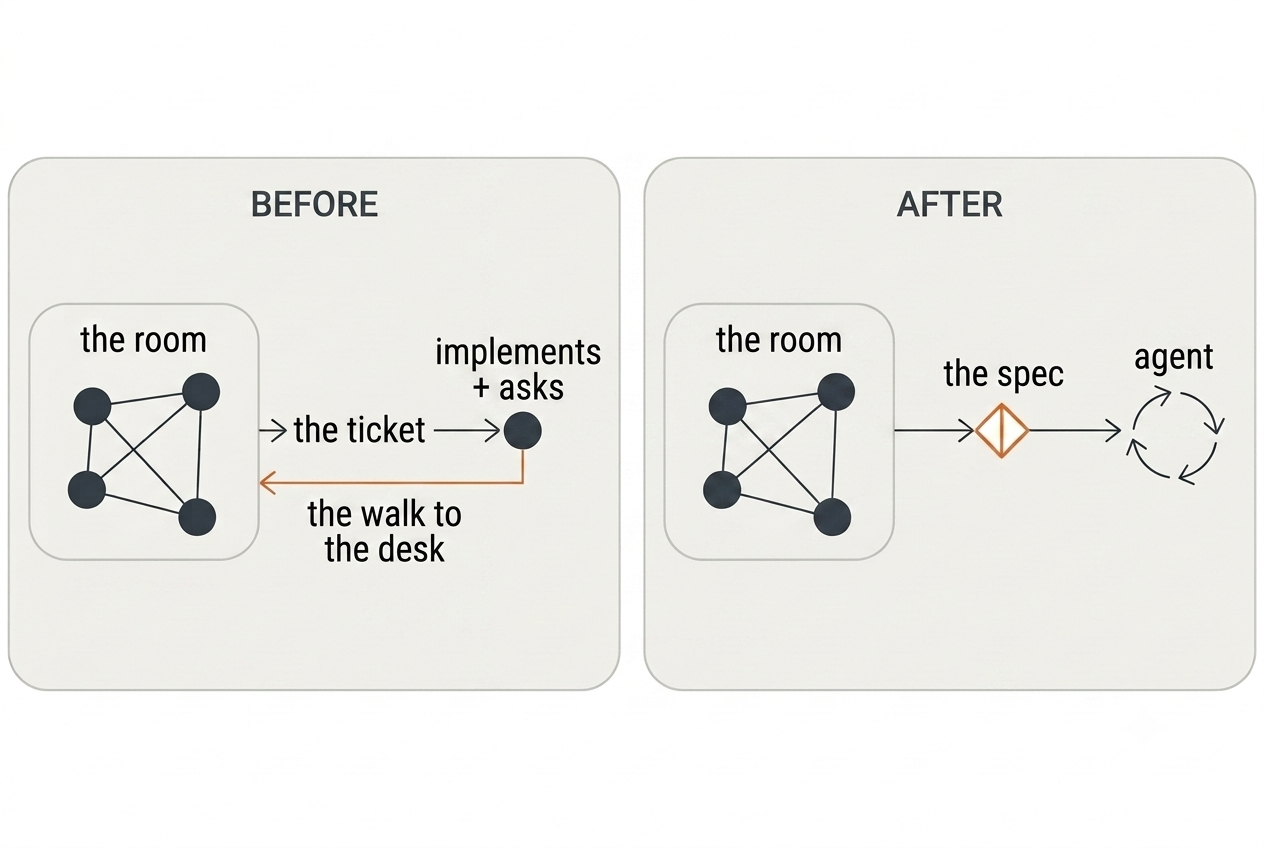
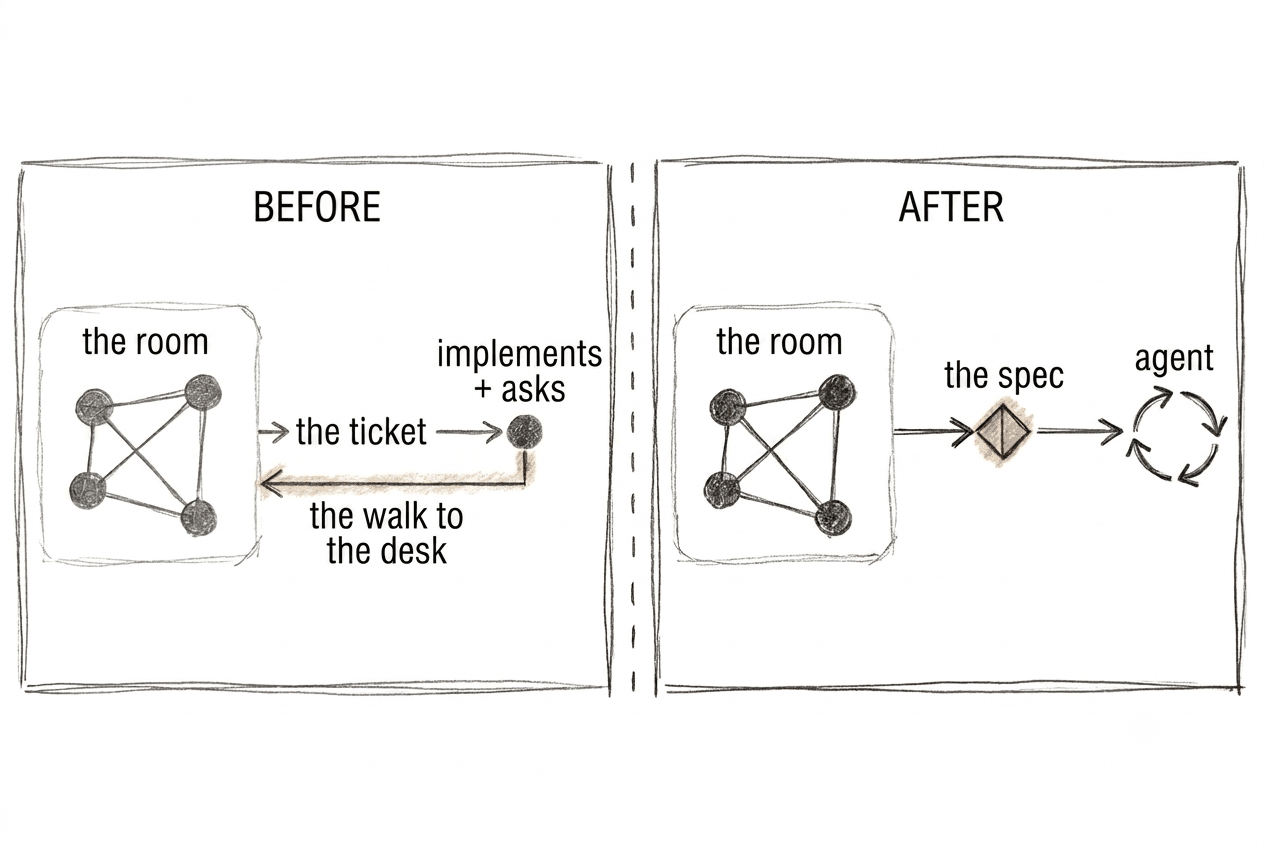
Land the hand-drawn figures, and put the Loop on the landing page
Upstream 4344903 restyled all four diagrams from vector to hand-drawn and
cut a fifth. Prose changed in two places only - the Trireme caption now
names the overlap "the spec" and runs the agent from it rather than in
it, and the Astrolabe loses the loop-contained figure and its caption -
so this is a real content update, unlike the renumbering before it. The
draft PDF and EPUB are now behind and still need rebuilding; the
changelog entry and the footer both say PENDING until that lands.

The landing page gains the Loop. It had no image at all, and no
explanation of its own title: a first-time visitor read "Left of the
Loop", then a paragraph about friction, with nothing joining the two.
The figure is the definition - LEFT, LOOP, RIGHT, with the room and the
spec on the left of a gate the team decides at. It is also the right one
to lift, being the canonical figure the bible marks final and the only
one that opens the cycle up; scattered-loops is explicitly unfinished.

It steps outside the 40em column above 56em, because the hand-lettered
annotations get tight at the measure. The breakpoint clears 48em plus
the body padding, so the negative margins cannot push it off-screen -
checked at 375, 896 and 1280, no horizontal overflow at any of them.

The social card is its own file rather than a second reference to the
figure. The card is 1.91:1 and the figure is 1.49:1, so pointing the
meta tags at the figure would have let the platforms crop the
[…]

Changed region(s): [[0.0, 0.1533, 1.0, 0.8278], [0.1851, 0.3679, 0.216, 0.3986]]

diff --git a/index.html b/index.html
@@ -12,10 +12,18 @@
 <meta property="og:description" content="When AI writes the code, shared understanding becomes the scarce resource. A working draft by Simon Schrottner.">
 <meta property="og:url" content="https://leftoftheloop.dev">
 <meta property="og:site_name" content="Left of the Loop">
+<!-- Its own file rather than the chapter figure: the social card is 1.91:1
+     and the figure is 1.49:1, so sharing the one image would have let the
+     platforms crop the LEFT/LOOP/RIGHT headings off the top. -->
+<meta property="og:image" content="https://leftoftheloop.dev/og-the-loop.png">
+<meta property="og:image:width" content="1200">
+<meta property="og:image:height" content="630">
+<meta property="og:image:alt" content="The room merges into a spec; the spec merges into the loop, where the agent generates, reviews, and iterates at machine speed; the loop merges into production.">
 
-<meta name="twitter:card" content="summary">
+<meta name="twitter:card" content="summary_large_image">
 <meta name="twitter:title" content="Left of the Loop">
 <meta name="twitter:description" content="When AI writes the code, shared understanding becomes the scarce resource. A working draft by Simon Schrottner.">
+<meta name="twitter:image" content="https://leftoftheloop.dev/og-the-loop.png">
 
 <style>
   body {
@@ -80,6 +88,31 @@
     border-top: 1px solid #ddd;
     margin: 2.5em 0;
   }
+  .figure {
+    margin: 2em 0;
+  }
+  .figure img {
+    display: block;
+    width: 100%;
+    height: auto;
+  }
+  .figure figcaption {
+    font-family: -apple-system, Helvetica, Arial, sans-serif;
+    font-size: 0.85em;
+    color: #666;
+    margin-top: 0.7em;
+  }
+  /* The drawing carries small hand-lettered annotations that get tight at
+     the 40em measure, so it steps outside the column once the viewport can
+     seat it. The breakpoint clears 48em plus the body padding, so the
+     negative margins can never push it off-screen. */
+  @media (min-width: 56em) {
+    .figure {
+      width: 48em;
+      margin-left: -4em;
+      margin-right: -4em;
+    }
+  }
   .excerpt-note {
     font-family: -apple-system, Helvetica, Arial, sans-serif;
     font-size: 0.85em;
@@ -127,6 +160,16 @@ understanding the scarce resource, and constructive friction the
 mechanism that protects it. This book is the argument for why teams that
 keep that friction will outperform teams that optimize it away.
 </p>
+
+<figure class="figure">
+  <a href="chapters/figures/the-loop.png">
+    <img src="chapters/figures/the-loop.png" width="1264" height="848"
+         alt="Three zones, left to right. LEFT: the room, drawn as four joined dots, becomes the spec — the merged record of what and why. A merge gate, where the team decides, passes it into LOOP: the agent generates, reviews, and iterates at machine speed. A second merge gate, where a human accepts, passes the result into RIGHT: production.">
+  </a>
+  <figcaption>The agent's loop runs at machine speed. Left of it is where
+  the humans decide what it builds &mdash; and that is what this book is
+  about.</figcaption>
+</figure>
 
 <div class="links">
   <p>Download the draft:
@@ -178,7 +221,7 @@ picture before we started building the thing.</p>
   <p>&copy; Simon Schrottner. Licensed under <a href="https://creativecommons.org/licenses/by-nc-nd/4.0/">CC BY-NC-ND 4.0</a>.</p>
   <details class="version-history">
     <summary>Version history</summary>
-    <p>Current draft &mdash; manuscript <code>4702417</code>, site <code>2f406cd</code>, 2026-07-28.</p>
+    <p>Current draft &mdash; manuscript <code>4344903</code>, site <code>PENDING</code>, 2026-08-06.</p>
     <p>What changed in this and every earlier update: <a href="/changelog">changelog</a>.</p>
   </details>
 </footer>

diff --git a/chapters/md/211-the-astrolabe.md b/chapters/md/211-the-astrolabe.md
@@ -6,7 +6,7 @@
 
 Most developers are running their own agent.
 
-<!-- TODO: placeholder figure, pending final design pass -->
+<!-- TODO: restyled but not final. Outstanding: the two headings and "x20" are typeset, not hand-lettered; the headings sit outside the panel frames instead of inside them; the grid stops at the panel edges instead of running behind the whole sheet; and a stray four-pointed sparkle sits in the bottom right of the right panel. -->
 ![Twenty developers, twenty separate agent loops, versus one team running a single shared loop.](figures/scattered-loops.png)
 
 Not every team, every individual. Local machine. Local workflow. Local configuration. Local prompting habits built up through private experimentation that nobody else sees. The AGENTS.md[^c11-agents] file, if it exists at all, was written by whoever set up the project and hasn't been touched since. The skills and MCPs each engineer uses reflect their own discovery process alone.
@@ -34,9 +34,6 @@ The platform won't be the only way to run an agent. Engineers will still experim
 The paved road is attractive, not mandatory. But when agent work runs through the platform, something changes. Every run is traceable to a team, a ticket, a spec. Rerun rates become visible. The correlation between spec quality and expensive implementations becomes measurable. The organization can see, for the first time, what a bad prompt actually costs, then trace it back to the process failure that caused it.
 
 That's organizational telemetry for AI development. The same way a team instruments its system to understand its behavior, it instruments its agent platform to understand its process.
-
-<!-- TODO: placeholder figure, pending final design pass; exploratory placement, confirm on review -->
-![The room's spec feeds the loop; the loop's output feeds back into another spec, contained inside the same room the whole time.](figures/the-loop-contained.png)
 
 Historically, platform engineering worked not because individual teams couldn't build those things themselves. It worked because the platform team sees across every team at once: more signal, more patterns, more ability to spot what's working and what isn't, and the mandate and resources to act on it. One engineer figures out a better way to frame a class of problem. Under the current model that insight stays private, and when the engineer leaves it goes with them. Under the platform model it gets contributed, reviewed, and inherited by every team.
 

diff --git a/CHANGELOG.md b/CHANGELOG.md
@@ -11,6 +11,37 @@ Each entry has two commit references:
 - **Manuscript** — the commit in the private `aepfli/left-of-the-loop`
   source repo the build was pulled from.
 
+## 2026-08-06 — manuscript `4344903`
+
+Site: `PENDING`
+
+A figures update. The four diagrams are now hand-drawn rather than
+vector, and they read as one set: ink on white over a faint grid, one
+warm-orange accent that means a human is deciding, and a diamond that
+means the merge gate.
+
+- All four figures replaced with the hand-drawn versions — the Loop, the
+  Desk, the Trireme fields, and the scattered loops
+- The Curse of Sisyphus: the Loop's gates are now labelled "merge gate",
+  the book's own coinage from later in the same chapter, and annotated
+  "the team decides" and "a human accepts", so the two human moments
+  bracket "machine speed"
+- The Trireme: the caption moved with its art — the overlap is now "the
+  spec" rather than "the work", and the agent runs from it rather than
+  in it
+- The Astrolabe: the loop-contained figure is cut. It illustrated
+  containment and a feedback arrow while the prose around it argues
+  centralized infrastructure and cost visibility, and it was close to a
+  redraw of the Loop besides
+- The scattered-loops figure is restyled but not final; its headings are
+  still typeset rather than hand-lettered
+- No prose changed beyond the Trireme caption and the cut figure's line
+
+The landing page gains the Loop figure, which is the one diagram that
+explains the book's title, and a social preview card built from it.
+Chapter pages serve the figures re-encoded for the web — same images,
+about a tenth of the bytes.
+
 ## 2026-07-28 — manuscript `4702417`
 
 Site: `2f406cd`

diff --git a/README.md b/README.md
@@ -22,6 +22,13 @@ Live at [leftoftheloop.dev](https://leftoftheloop.dev).
   reader as the chapter pages, and linked from the "Version history"
   details on the landing page.
 - `chapters/` — unlisted per-chapter reading pages (see below).
+- `og-the-loop.png` — the social preview card, built from the Loop
+  figure. It is its own file rather than a reference to
+  `chapters/figures/the-loop.png` because the card is 1.91:1 and the
+  figure is 1.49:1; pointing the meta tags at the figure would let the
+  platforms crop the LEFT/LOOP/RIGHT headings off the top. Rebuild it by
+  trimming the figure to its ink and centring that on a 1200×630 white
+  canvas with a 48px margin.
 - `CNAME` — GitHub Pages custom domain config.
 - `LICENSE` — CC BY-NC-ND 4.0.
 
@@ -120,6 +127,21 @@ When a new draft is committed here:
    renamed, or removed upstream, update the manifest in
    `chapters/reader.js` to match — and on a rename, move the old
    basename into that entry's `aliases`.
+6. Re-encode any figure that changed. Upstream keeps the archival PNGs,
+   some over 5 MB, which is fine for print and not fine for a phone.
+   Quantizing to 64 colours costs nothing visible on ink-drawn art and
+   takes about a tenth of the bytes:
+
+   ```python
+   from PIL import Image
+   im = Image.open(src).convert("RGB")
+   im.quantize(colors=64, method=Image.MEDIANCUT).save(dst, optimize=True)
+   ```
+
+   Keep the pixel dimensions as they are — the figures are 1264px wide
+   and the reading column is 40em, so they are already exactly the 2×
+   source a high-DPI screen wants. If a figure that appears on the
+   landing page changes, rebuild `og-the-loop.png` too (see below).
 
 ## Analytics
 

diff --git a/chapters/md/201-the-curse-of-sisyphus.md b/chapters/md/201-the-curse-of-sisyphus.md
@@ -70,7 +70,6 @@ The agent loop is real. AI can take a well-specified ticket, implement it, run a
 
 That loop is the agent's: implementation, review, iteration, at machine speed. To its right sits production, where the output meets reality. To its left is where the thinking happens: what to build, why, and what done looks like. This book is an argument for the left of the loop. For the humans who need to be there while the work is still on the page, building the shared understanding that determines whether the loop produces the right thing.
 
-<!-- TODO: placeholder figure, pending final design pass -->
 ![The room merges into a spec; the spec merges into the loop, where the agent generates, reviews, and iterates at machine speed; the loop merges into production.](figures/the-loop.png)
 
 The input is the problem.

diff --git a/chapters/md/209-the-trireme.md b/chapters/md/209-the-trireme.md
@@ -26,8 +26,7 @@ Someone who manages the outside. Stakeholder pressure, organizational noise, the
 
 The agent is the fourth, running only after the other three have done their work.
 
-<!-- TODO: placeholder figure, pending final design pass -->
-![Direction, ground, and outside overlap into the work; the agent runs only in that overlap.](figures/the-trireme-fields.png)
+![Direction, ground, and outside overlap into the spec; the agent runs only from that overlap.](figures/the-trireme-fields.png)
 
 I've watched these functions show up without anyone assigning them.
 

diff --git a/chapters/md/202-the-end-of-a-craft.md b/chapters/md/202-the-end-of-a-craft.md
@@ -11,7 +11,6 @@ The honest answer is the work that can't be prompted: the judgment before the pr
 
 That judgment has a name once it's shared. Direction. And it's the part of the craft the agent doesn't touch.
 
-<!-- TODO: placeholder figure, pending final design pass -->
 ![Before: the room hands off a ticket, and the implementer walks back to ask what it means. After: the room converges on a spec, and the agent runs from that directly.](figures/the-desk.png)
 
 ---
